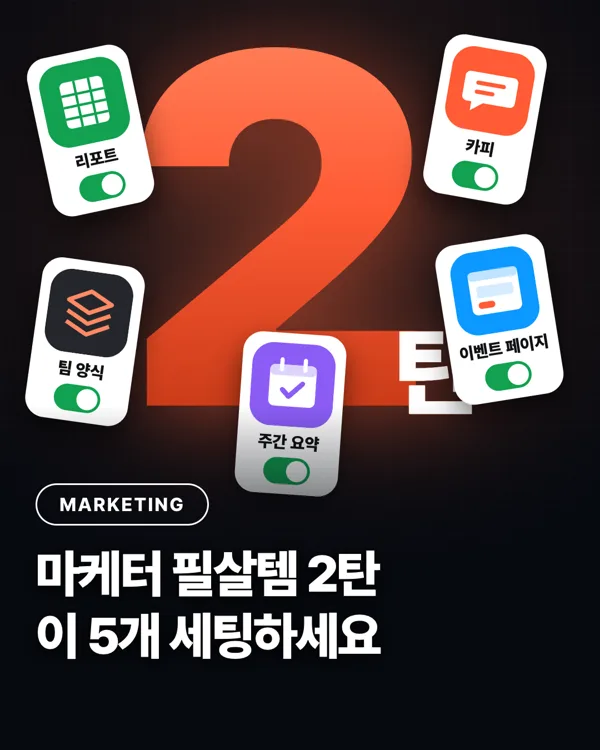
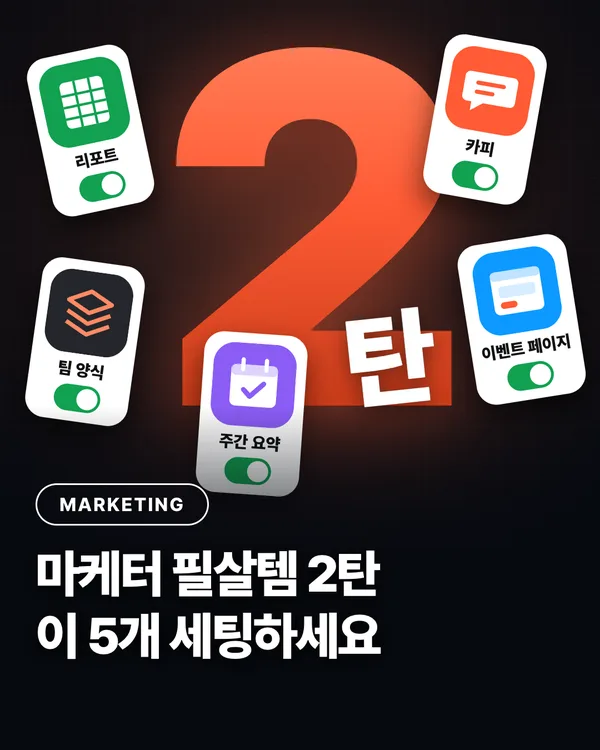
library: claude-setup-5 커버 교체 · Chat·Cowork 통합/아티팩트 무료 공유 반영

Changed region(s): [[0.24, 0.0613, 0.99, 0.6747], [0.24, 0.0613, 0.48, 0.2453]]

diff --git a/library/claude-setup-5/index.html b/library/claude-setup-5/index.html
@@ -120,14 +120,14 @@ footer{background:var(--ink);color:#7f97b5;font-size:12px;padding:24px 0}
 <tr><td data-label="직무">퍼포먼스 마케터</td><td data-label="반복 업무">매체별 광고 리포트 합치기</td><td data-label="세팅">Claude Code</td><td data-label="종류">에이전트</td><td data-label="필요한 플랜">Pro 이상</td><td data-label="난이도">보통</td></tr>
 <tr><td data-label="직무">콘텐츠 마케터</td><td data-label="반복 업무">채널별 카피·SNS 글</td><td data-label="세팅">marketingskills</td><td data-label="종류">스킬(무료 오픈소스)</td><td data-label="필요한 플랜">Claude Code에서 쓰면 Pro 이상</td><td data-label="난이도">보통</td></tr>
 <tr><td data-label="직무">마케팅 팀장</td><td data-label="반복 업무">매주 같은 형식의 보고서</td><td data-label="세팅">스킬 만들기</td><td data-label="종류">스킬</td><td data-label="필요한 플랜">무료 플랜부터</td><td data-label="난이도">보통</td></tr>
-<tr><td data-label="직무">브랜드 마케터</td><td data-label="반복 업무">이벤트·랜딩 페이지 공유</td><td data-label="세팅">Artifacts 공유</td><td data-label="종류">클로드 기능</td><td data-label="필요한 플랜">Pro 이상(무료는 채팅 아티팩트 게시만)</td><td data-label="난이도">쉬움</td></tr>
-<tr><td data-label="직무">CRM 마케터</td><td data-label="반복 업무">매주 반복 보고</td><td data-label="세팅">예약 작업</td><td data-label="종류">Cowork</td><td data-label="필요한 플랜">Pro 이상</td><td data-label="난이도">보통</td></tr>
+<tr><td data-label="직무">브랜드 마케터</td><td data-label="반복 업무">이벤트·랜딩 페이지 공유</td><td data-label="세팅">Artifacts 공유</td><td data-label="종류">클로드 기능</td><td data-label="필요한 플랜">무료 플랜부터</td><td data-label="난이도">쉬움</td></tr>
+<tr><td data-label="직무">CRM 마케터</td><td data-label="반복 업무">매주 반복 보고</td><td data-label="세팅">예약 작업</td><td data-label="종류">클로드 기능</td><td data-label="필요한 플랜">Pro 이상</td><td data-label="난이도">보통</td></tr>
 </table></div>
 <hr>
 <h3>1. 시작 전 준비</h3>
 <div class="lmnote"><p><strong>이것만 확인하세요</strong></p>
-<ul><li>Claude 데스크톱 앱을 설치해 두세요(macOS·Windows). 앱 위쪽에 Chat · Cowork · Code 탭이 있어요.</li><li>Claude Code(Code 탭)와 예약 작업은 유료 플랜(Pro, Max, Team, Enterprise)에서 쓸 수 있어요.</li><li>스킬을 쓰려면 <strong>설정 → Capabilities → "Code execution and file creation"</strong>이 켜져 있어야 해요(Team·Enterprise는 관리자 설정).</li></ul></div>
-<figure><img src="img/03.webp" alt="공식 문서 — Claude 데스크톱 앱의 Chat · Cowork · Code 탭" loading="lazy"><figcaption>공식 문서 — Claude 데스크톱 앱의 Chat · Cowork · Code 탭</figcaption></figure>
+<ul><li>Claude 데스크톱 앱을 설치해 두세요(macOS·Windows). Claude Code는 데스크톱 앱의 <strong>Code</strong> 탭에서 써요.</li><li>2026년 9월 16일부터 <strong>Chat과 Cowork가 하나의 Claude로 합쳐지고 있어요</strong>(Pro·Max부터 순차 적용, Team·무료는 이후). 입력창에 Chat·Cowork 선택이 없으면 합쳐진 새 화면이에요. 따로 고를 필요 없이 대화창에 하고 싶은 일을 쓰면, 클로드가 바로 답할지 작업으로 처리할지 알아서 정해요.</li><li>Claude Code(Code 탭)와 예약 작업은 유료 플랜(Pro, Max, Team, Enterprise)에서 쓸 수 있어요.</li><li>스킬을 쓰려면 <strong>설정 → Capabilities → "Code execution and file creation"</strong>이 켜져 있어야 해요(Team·Enterprise는 관리자 설정).</li></ul></div>
+<figure><img src="img/03.webp" alt="공식 문서 — Claude 데스크톱 앱의 Code 탭 안내 (Chat·Cowork 통합 전 문서 기준)" loading="lazy"><figcaption>공식 문서 — Claude 데스크톱 앱의 Code 탭 안내 (Chat·Cowork 통합 전 문서 기준)</figcaption></figure>
 <hr>
 <h3>2. 퍼포먼스 마케터 — Claude Code로 광고 리포트 폴더째 정리</h3>
 <p><strong>이럴 때</strong> 매주 월요일마다 메타·구글·네이버·카카오에서 리포트를 내려받아 엑셀에 복붙하고, 열 이름을 맞추고, 합계를 다시 계산하고 있다면요. <strong>무엇인가요</strong> Claude Code는 내 컴퓨터의 폴더와 파일을 직접 열어서 작업하는 에이전트예요. 데스크톱 앱의 <strong>Code 탭</strong>에서 쓸 수 있어서 터미널을 몰라도 돼요. 파일 여러 개를 읽고, 합치고, 새 엑셀 파일로 저장하는 일을 한 번에 맡길 수 있어요. <strong>세팅 방법</strong></p>
@@ -232,7 +232,7 @@ name은 영어 소문자와 하이픈으로, description에는 언제 이 스킬
 <ol><li>"[브랜드명] 사전 신청 이벤트 랜딩 페이지를 만들어줘"처럼 요청해요.</li><li>아티팩트가 열리면 오른쪽 위 <strong>공유</strong>(Share)를 눌러요.</li><li><strong>일반 액세스</strong>를 "나만"에서 <strong>링크가 있는 모든 사용자</strong>(Anyone with the link)로 바꾸고 링크를 복사해 보내요. 받은 사람은 볼 수만 있고 고칠 수는 없어요.</li></ol>
 <figure><img src="img/12.webp" alt="실제 화면 — 예시로 만든 이벤트 랜딩 페이지(가상 브랜드), 오른쪽 위 &#x27;공유&#x27;" loading="lazy"><figcaption>실제 화면 — 예시로 만든 이벤트 랜딩 페이지(가상 브랜드), 오른쪽 위 &#x27;공유&#x27;</figcaption></figure>
 <figure><img src="img/13.webp" alt="실제 화면 — 공유 → 일반 액세스 → 링크가 있는 모든 사용자" loading="lazy"><figcaption>실제 화면 — 공유 → 일반 액세스 → 링크가 있는 모든 사용자</figcaption></figure>
-<ul><li>Pro·Max: "Only you" 또는 "Anyone with the link" 중에서 골라요. 특정 사람만 보게 하려면 이메일로 초대해요(베타).</li><li>Team·Enterprise: 기본은 조직 안에서만 열려요. 밖으로 공유하려면 관리자가 외부 공유를 켜야 해요.</li><li>무료 플랜: 채팅에서 만든 예전 방식 아티팩트에 한해 <strong>Publish</strong>로 공개 링크를 만들 수 있어요.</li></ul>
+<ul><li>무료·Pro·Max: 모두 <strong>링크가 있는 모든 사용자</strong>로 공유할 수 있어요. Pro·Max는 특정 사람만 보게 이메일로 초대하는 것도 돼요(베타).</li><li>Team·Enterprise: 기본은 조직 안에서만 열려요. 밖으로 공유하려면 관리자가 외부 공유를 켜야 해요.</li><li>예전에 만든 아티팩트는 <strong>공유</strong> 대신 <strong>Publish</strong>(게시) 버튼이 보일 수 있어요(무료·Pro·Max). 눌러서 공개 링크를 만드는 방식은 같아요.</li></ul>
 <figure><img src="img/14.webp" alt="공식 문서 — 플랜별 공유 방식" loading="lazy"><figcaption>공식 문서 — 플랜별 공유 방식</figcaption></figure>
 <p><strong>바로 쓰는 요청문 3개</strong></p>
 <div class="cw"><button class="cbtn" type="button">복사</button><pre><code data-lang="plain text">[브랜드명] 신제품 사전 신청 이벤트 랜딩 페이지를 만들어줘.
@@ -244,9 +244,9 @@ name은 영어 소문자와 하이픈으로, description에는 언제 이 스킬
 <ul><li>링크가 있는 사람은 누구나 열 수 있어요. 개인정보·내부 숫자·미공개 가격은 넣지 마세요.</li><li>실제 신청을 받는 폼은 별도 도구(구글 폼 등)를 연결하세요. 아티팩트는 시안·안내용으로 쓰는 게 안전해요.</li><li>예전 방식(Publish)으로 공개했다가 <strong>Unpublish</strong>하면 같은 아티팩트를 다시 공개할 수 없어요. 새로 만들어야 해요.</li></ul>
 <hr>
 <h3>6. CRM 마케터 — 예약 작업으로 매주 요약 자동으로 받기</h3>
-<p><strong>이럴 때</strong> 매주 월요일 아침에 지난주 고객 반응·문의·성과를 모아서 같은 형식으로 정리하고 있다면요. <strong>무엇인가요</strong> 예약 작업은 한 번 설명해 둔 일을 정해진 주기마다 클로드가 알아서 실행하는 기능이에요. 결과는 <strong>Scheduled</strong> 메뉴에서 확인해요. 공식 도움말 기준(2026년 10월 확인)으로 예약 작업은 원격으로 돌아서, <strong>컴퓨터가 잠들어 있거나 앱이 닫혀 있어도 정해진 시간에 실행돼요.</strong> <strong>세팅 방법 (Cowork, 한국어 화면 기준)</strong></p>
+<p><strong>이럴 때</strong> 매주 월요일 아침에 지난주 고객 반응·문의·성과를 모아서 같은 형식으로 정리하고 있다면요. <strong>무엇인가요</strong> 예약 작업은 한 번 설명해 둔 일을 정해진 주기마다 클로드가 알아서 실행하는 기능이에요. 결과는 <strong>Scheduled</strong> 메뉴에서 확인해요. Chat·Cowork가 합쳐진 뒤로는 따로 Cowork를 고르지 않아도 되고, 웹·데스크톱·모바일 어디서든 만들 수 있어요. 공식 도움말 기준(2026년 10월 확인)으로 예약 작업은 원격으로 돌아서, <strong>컴퓨터가 잠들어 있거나 앱이 닫혀 있어도 정해진 시간에 실행돼요.</strong> <strong>세팅 방법 (한국어 화면 기준)</strong></p>
+<ul><li>합쳐진 새 화면이라면 가장 쉬운 방법: 대화창에 "매주 월요일 오전 9시에 지난주 ○○를 요약해줘"라고 쓰고, 클로드가 제안한 내용을 확인한 뒤 <strong>Schedule</strong>을 눌러요.</li><li>조건을 직접 정하고 싶다면 아래 순서대로 해요(예전 화면에서는 입력창 왼쪽 아래에서 Cowork를 먼저 골라요).</li></ul>
 <ol><li>왼쪽 사이드바에서 <strong>예약됨</strong>(Scheduled)을 눌러요. <strong>예약된 작업</strong> 페이지 아래에 일일 브리핑·주간 요약·주제 모니터링 같은 예시가 있어서, 눌러서 시작해도 돼요.</li><li>오른쪽 위 <strong>새 작업</strong> → <strong>직접 설정</strong>을 골라요. (클로드에게 질문받으며 만들려면 <strong>Claude와 함께 만들기</strong>)</li><li><strong>예약 작업 만들기</strong> 창에서 이름, 지침(요청문), 빈도(매시간·매일·매주·평일·수동)와 요일·시간을 정하고 <strong>저장</strong>을 눌러요.</li><li><strong>권한</strong>이 "자동"이면 클로드가 승인을 기다리지 않고 작업하고 커넥터를 써요. 처음에는 결과를 확인하면서 쓰세요.</li></ol>
-<ul><li>새 Claude 화면(입력창에 Chat·Cowork 구분이 없는 화면)이라면 대화창에 "매주 월요일 오전 9시에 지난주 ○○를 요약해줘"라고 쓰고, 클로드가 제안한 내용을 확인한 뒤 <strong>Schedule</strong>을 누르면 돼요.</li></ul>
 <figure><img src="img/15.webp" alt="실제 화면 — 예약된 작업 페이지와 예시 템플릿" loading="lazy"><figcaption>실제 화면 — 예약된 작업 페이지와 예시 템플릿</figcaption></figure>
 <figure><img src="img/16.webp" alt="실제 화면 — 예약 작업 만들기: 이름 · 지침 · 빈도(매주 월요일 오전 9:00) · 권한" loading="lazy"><figcaption>실제 화면 — 예약 작업 만들기: 이름 · 지침 · 빈도(매주 월요일 오전 9:00) · 권한</figcaption></figure>
 <figure><img src="img/17.webp" alt="실제 화면 — 저장하면 목록에 바로 생겨요 (확인 후 삭제한 예시)" loading="lazy"><figcaption>실제 화면 — 저장하면 목록에 바로 생겨요 (확인 후 삭제한 예시)</figcaption></figure>
@@ -266,12 +266,12 @@ name은 영어 소문자와 하이픈으로, description에는 언제 이 스킬
 <ul><li><strong>월</strong> 예약 작업이 만들어 둔 지난주 요약부터 확인해요.</li><li><strong>화</strong> Claude Code로 광고 리포트 폴더를 주간 리포트로 정리해요.</li><li><strong>수</strong> marketingskills로 이번 주 채널별 카피를 뽑아요.</li><li><strong>목</strong> 팀 스킬로 주간 보고서를 같은 형식으로 써요.</li><li><strong>금</strong> Artifacts로 다음 주 이벤트 페이지 시안을 만들어 링크로 공유해요.</li></ul>
 <hr>
 <h3>8. 자주 묻는 질문</h3>
-<div class="lmnote"><p><strong>무료로 다 되나요?</strong> 무료 플랜에서는 스킬 만들기·올리기와 채팅 아티팩트 공개(Publish)를 쓸 수 있어요. Claude Code, 예약 작업, 링크 공유(Share)는 Pro 이상 유료 플랜이에요. marketingskills 자체는 무료 오픈소스(MIT)예요.</p></div>
+<div class="lmnote"><p><strong>무료로 다 되나요?</strong> 무료 플랜에서는 스킬 만들기·올리기와 아티팩트 링크 공유를 쓸 수 있어요. Claude Code와 예약 작업은 Pro 이상 유료 플랜이에요. marketingskills 자체는 무료 오픈소스(MIT)예요.</p></div>
 <div class="lmnote"><p><strong>회사 데이터를 맡겨도 되나요?</strong> Claude Code는 내가 연 폴더 안에서 작업하고, 파일을 읽거나 쓰기 전에 확인을 받아요. 회사 규정상 외부 AI 사용에 제한이 있다면 먼저 확인하고, 예시처럼 필요한 파일만 따로 모아서 맡기세요.</p></div>
 <div class="lmnote"><p><strong>한국어로 되나요?</strong> 네. 요청문을 한국어로 쓰면 한국어로 나와요. 스킬 파일(SKILL.md)도 한국어로 써도 돼요.</p></div>
 <div class="lmnote"><p><strong>MCP랑 뭐가 달라요?</strong> MCP는 클로드를 다른 서비스(광고 관리자, 노션 등)의 데이터에 연결하는 방법이에요. 이 가이드의 다섯 개는 연결 없이 클로드 안에서 일하는 방식을 바꾸는 세팅이에요. 둘을 같이 쓰면 더 좋아요.</p></div>
 <h3>9. 공식 링크</h3>
-<ul><li>Claude 데스크톱 앱(Code 탭): <a href="https://code.claude.com/docs/en/desktop" target="_blank" rel="noopener">https://code.claude.com/docs/en/desktop</a></li><li>Anthropic 스킬 저장소(document-skills): <a href="https://github.com/anthropics/skills" target="_blank" rel="noopener">https://github.com/anthropics/skills</a></li><li>marketingskills: <a href="https://github.com/coreyhaines31/marketingskills" target="_blank" rel="noopener">https://github.com/coreyhaines31/marketingskills</a></li><li>스킬 쓰기·올리기: <a href="https://support.claude.com/en/articles/12512180" target="_blank" rel="noopener">https://support.claude.com/en/articles/12512180</a></li><li>아티팩트 공유: <a href="https://support.claude.com/en/articles/9547008-publishing-and-sharing-artifacts" target="_blank" rel="noopener">https://support.claude.com/en/articles/9547008-publishing-and-sharing-artifacts</a></li><li>예약 작업: <a href="https://support.claude.com/en/articles/13854387-schedule-recurring-tasks-in-claude-cowork" target="_blank" rel="noopener">https://support.claude.com/en/articles/13854387-schedule-recurring-tasks-in-claude-cowork</a></li></ul>
+<ul><li>Claude 데스크톱 앱(Code 탭): <a href="https://code.claude.com/docs/en/desktop" target="_blank" rel="noopener">https://code.claude.com/docs/en/desktop</a></li><li>Anthropic 스킬 저장소(document-skills): <a href="https://github.com/anthropics/skills" target="_blank" rel="noopener">https://github.com/anthropics/skills</a></li><li>marketingskills: <a href="https://github.com/coreyhaines31/marketingskills" target="_blank" rel="noopener">https://github.com/coreyhaines31/marketingskills</a></li><li>스킬 쓰기·올리기: <a href="https://support.claude.com/en/articles/12512180" target="_blank" rel="noopener">https://support.claude.com/en/articles/12512180</a></li><li>아티팩트 공유: <a href="https://support.claude.com/en/articles/9547008-publishing-and-sharing-artifacts" target="_blank" rel="noopener">https://support.claude.com/en/articles/9547008-publishing-and-sharing-artifacts</a></li><li>예약 작업: <a href="https://support.claude.com/en/articles/13854387-schedule-recurring-tasks-in-claude-cowork" target="_blank" rel="noopener">https://support.claude.com/en/articles/13854387-schedule-recurring-tasks-in-claude-cowork</a></li><li>Chat·Cowork 통합(웹·데스크톱·모바일): <a href="https://support.claude.com/en/articles/15520349-use-claude-cowork-on-web-desktop-and-mobile" target="_blank" rel="noopener">https://support.claude.com/en/articles/15520349-use-claude-cowork-on-web-desktop-and-mobile</a></li></ul>
 <hr>
 <p>기준 날짜: 2026년 10월 11일 (메뉴 이름·플랜·스킬 개수는 바뀔 수 있어요) 만든 사람: @work__zero — 클로드로 마케팅 일을 줄이는 방법을 릴스로 올려요. 팔로우해 두면 다음 편도 바로 받아볼 수 있어요.</p>
   </div>
